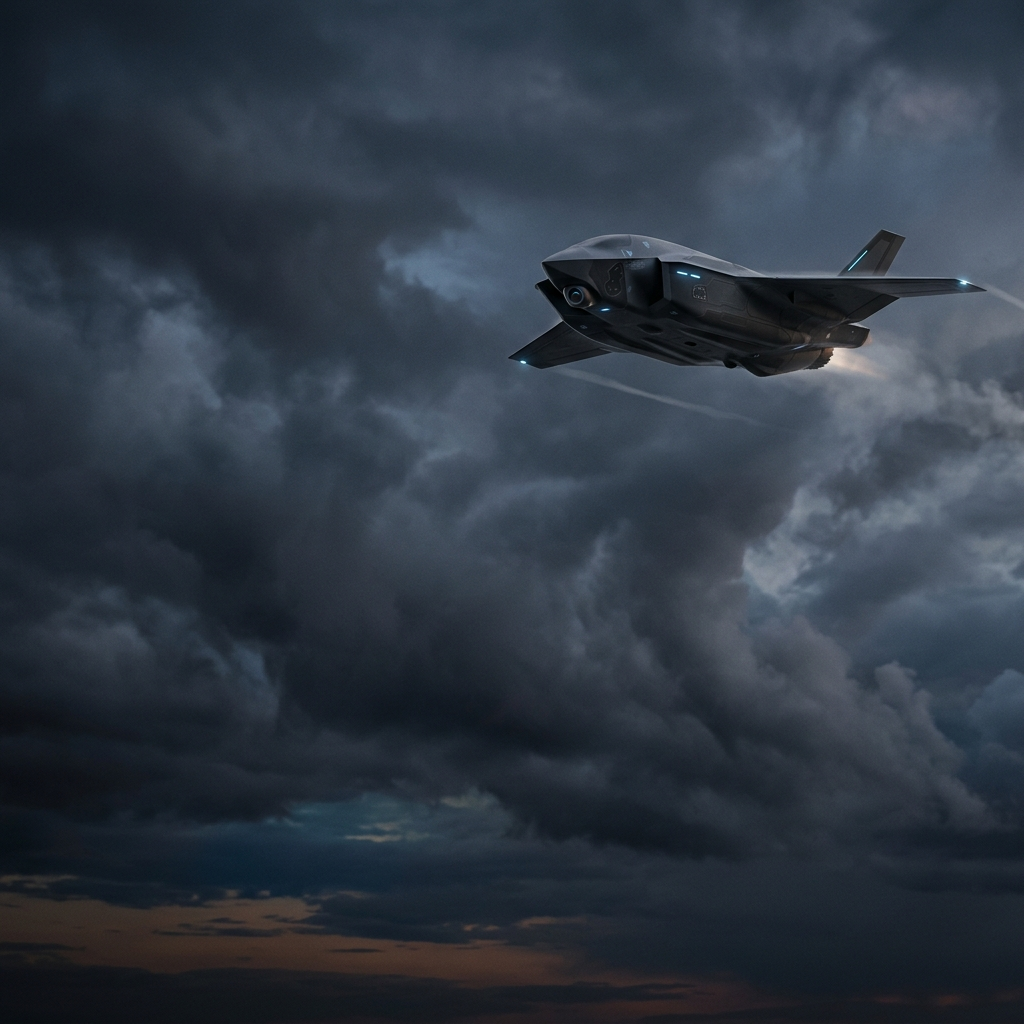
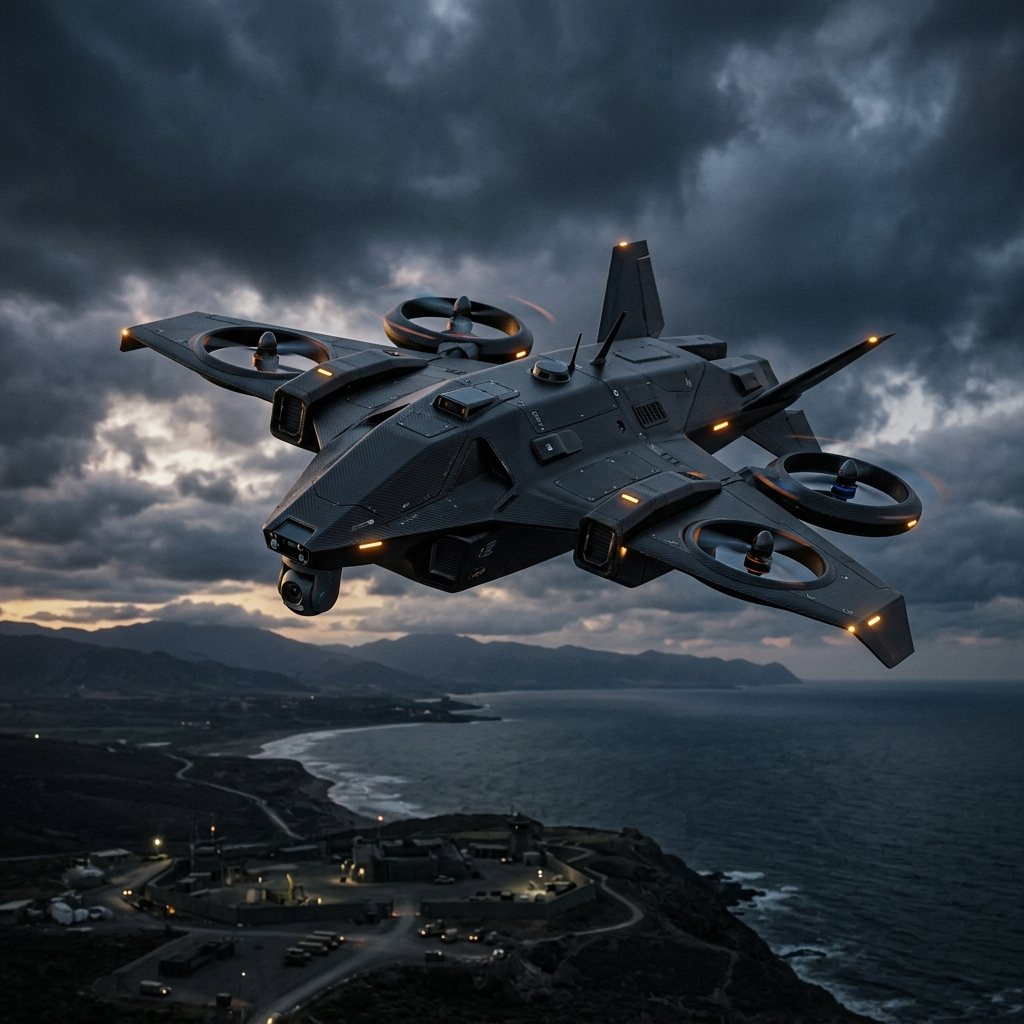
feat: integrate unique images, careers improvements and admin dashboard tabs

diff --git a/src/app/careers/page.tsx b/src/app/careers/page.tsx
@@ -57,8 +57,14 @@ export default async function CareersPage() {
         </h2>
         <div className="grid grid-cols-1 md:grid-cols-2 gap-12 mb-24">
           <div>
-            <div className="bg-[#1a1a1c] border border-white/5 h-[250px] rounded-2xl mb-6 relative overflow-hidden flex items-center justify-center">
-               <span className="text-gray-600 font-light tracking-widest uppercase">Aircraft Platform</span>
+            <div className="relative h-[250px] rounded-2xl mb-6 overflow-hidden border border-white/5 shadow-lg shadow-black/50">
+              <Image
+                src="/aircraft_platform.png"
+                alt="Aircraft Platform Engineering"
+                fill
+                className="object-cover"
+                sizes="(max-width: 768px) 100vw, 50vw"
+              />
             </div>
             <p className="text-gray-400 font-light leading-relaxed text-sm">
               <strong className="text-white font-medium">Aircraft:</strong> This team is building 8-seater hybrid-electric aircraft - from aerodynamic optimization and structural design, to propulsion integration, systems engineering, and full-scale testing. And as we continue developing the aircraft, the natural next step is autonomy - building the perception, navigation, and intelligence that will eventually fly it.
@@ -66,8 +72,14 @@ export default async function CareersPage() {
           </div>
           
           <div>
-            <div className="bg-[#1a1a1c] border border-white/5 h-[250px] rounded-2xl mb-6 relative overflow-hidden flex items-center justify-center">
-               <span className="text-gray-600 font-light tracking-widest uppercase">Propulsion Systems</span>
+            <div className="relative h-[250px] rounded-2xl mb-6 overflow-hidden border border-white/5 shadow-lg shadow-black/50">
+              <Image
+                src="/propulsion_systems.png"
+                alt="Propulsion Systems Engineering"
+                fill
+                className="object-cover"
+                sizes="(max-width: 768px) 100vw, 50vw"
+              />
             </div>
             <p className="text-gray-400 font-light leading-relaxed text-sm">
               <strong className="text-white font-medium">Propulsion:</strong> This team is building world-class defense propulsion engines - from compressor and turbine design, combustion systems, rotor dynamics to controls and test infrastructure.

diff --git a/src/app/page.tsx b/src/app/page.tsx
@@ -88,8 +88,14 @@ export default function Home() {
         </h2>
         <div className="grid grid-cols-1 md:grid-cols-2 gap-12 mb-12 text-left">
           <div className="flex flex-col items-center text-center">
-            <div className="bg-[#1a1a1c] border border-white/5 w-full h-[250px] rounded-2xl mb-6 relative overflow-hidden flex items-center justify-center">
-               <span className="text-gray-600 font-light tracking-widest uppercase">Aerospace Engineering</span>
+            <div className="relative w-full h-[250px] rounded-2xl mb-6 overflow-hidden border border-white/5 shadow-lg shadow-black/50">
+              <Image
+                src="/aircraft_platform.png"
+                alt="Aerospace Engineering"
+                fill
+                className="object-cover"
+                sizes="(max-width: 768px) 100vw, 50vw"
+              />
             </div>
             <p className="text-gray-400 font-light leading-relaxed text-base mb-6 max-w-sm mx-auto">
               Our aircraft team is leading the development of our autonomous platforms, spanning design, prototyping, systems integration, and testing.
@@ -102,8 +108,14 @@ export default function Home() {
             </Link>
           </div>
           <div className="flex flex-col items-center text-center">
-            <div className="bg-[#1a1a1c] border border-white/5 w-full h-[250px] rounded-2xl mb-6 relative overflow-hidden flex items-center justify-center">
-               <span className="text-gray-600 font-light tracking-widest uppercase">Autonomous Systems</span>
+            <div className="relative w-full h-[250px] rounded-2xl mb-6 overflow-hidden border border-white/5 shadow-lg shadow-black/50">
+              <Image
+                src="/propulsion_systems.png"
+                alt="Autonomous Systems"
+                fill
+                className="object-cover"
+                sizes="(max-width: 768px) 100vw, 50vw"
+              />
             </div>
             <p className="text-gray-400 font-light leading-relaxed text-base mb-6 max-w-sm mx-auto">
               Our AI team is focused on building world-class neural networks for navigation, threat detection, and swarm intelligence.

diff --git a/src/app/actions.ts b/src/app/actions.ts
@@ -5,6 +5,7 @@ import { Resend } from "resend";
 
 const resend = new Resend(process.env.RESEND_API_KEY || "re_placeholder_key_for_build");
 const MIVA_EMAIL = process.env.MIVA_EMAIL || "[email redacted]";
+const FROM_EMAIL = process.env.FROM_EMAIL || "[email redacted]";
 
 export async function submitContactForm(formData: FormData) {
   try {
@@ -23,7 +24,7 @@ export async function submitContactForm(formData: FormData) {
 
     // Send email via Resend
     const { data, error } = await resend.emails.send({
-      from: "MIVA <[email redacted]>", // Note: requires miva-aerospace.com to be verified in Resend. For testing, [email redacted] can be used.
+      from: `MIVA <${FROM_EMAIL}>`, 
       to: [MIVA_EMAIL],
       subject: `New Contact Request from ${name}`,
       text: `Name: ${name}\nEmail: ${email}\n\nMessage:\n${message}`,
@@ -99,7 +100,7 @@ export async function submitCareerApplication(formData: FormData) {
 
     // Send email via Resend
     const { data, error } = await resend.emails.send({
-      from: "MIVA Careers <[email redacted]>", // Note: requires miva-aerospace.com to be verified in Resend.
+      from: `MIVA Careers <${FROM_EMAIL}>`, 
       to: [MIVA_EMAIL],
       subject: `New Job Application: ${name} - ${jobTitle}`,
       text: `Name: ${name}\nEmail: ${email}\nPosition: ${jobTitle}\n\nCover Letter:\n${coverLetter}\n\nAttached: ${resumeName || "No CV uploaded"}`,